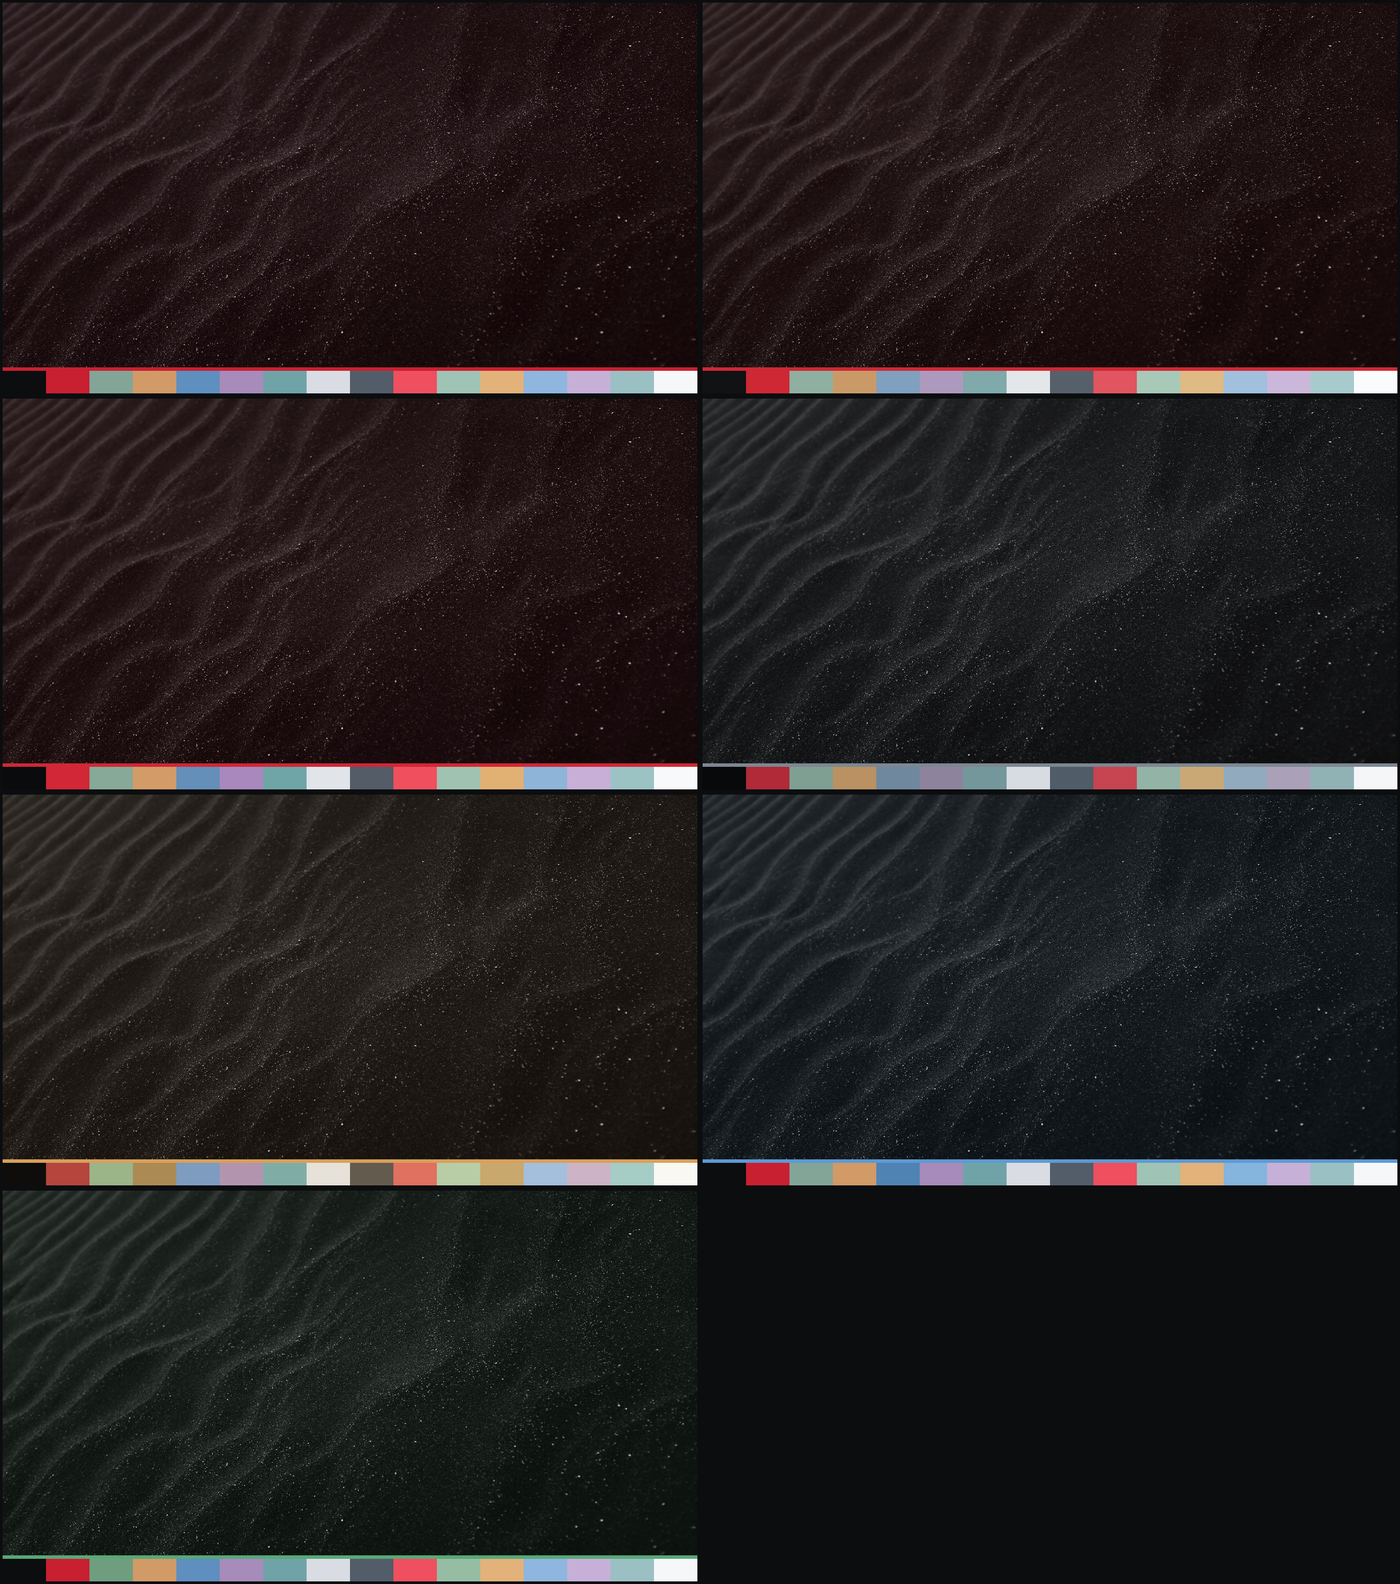
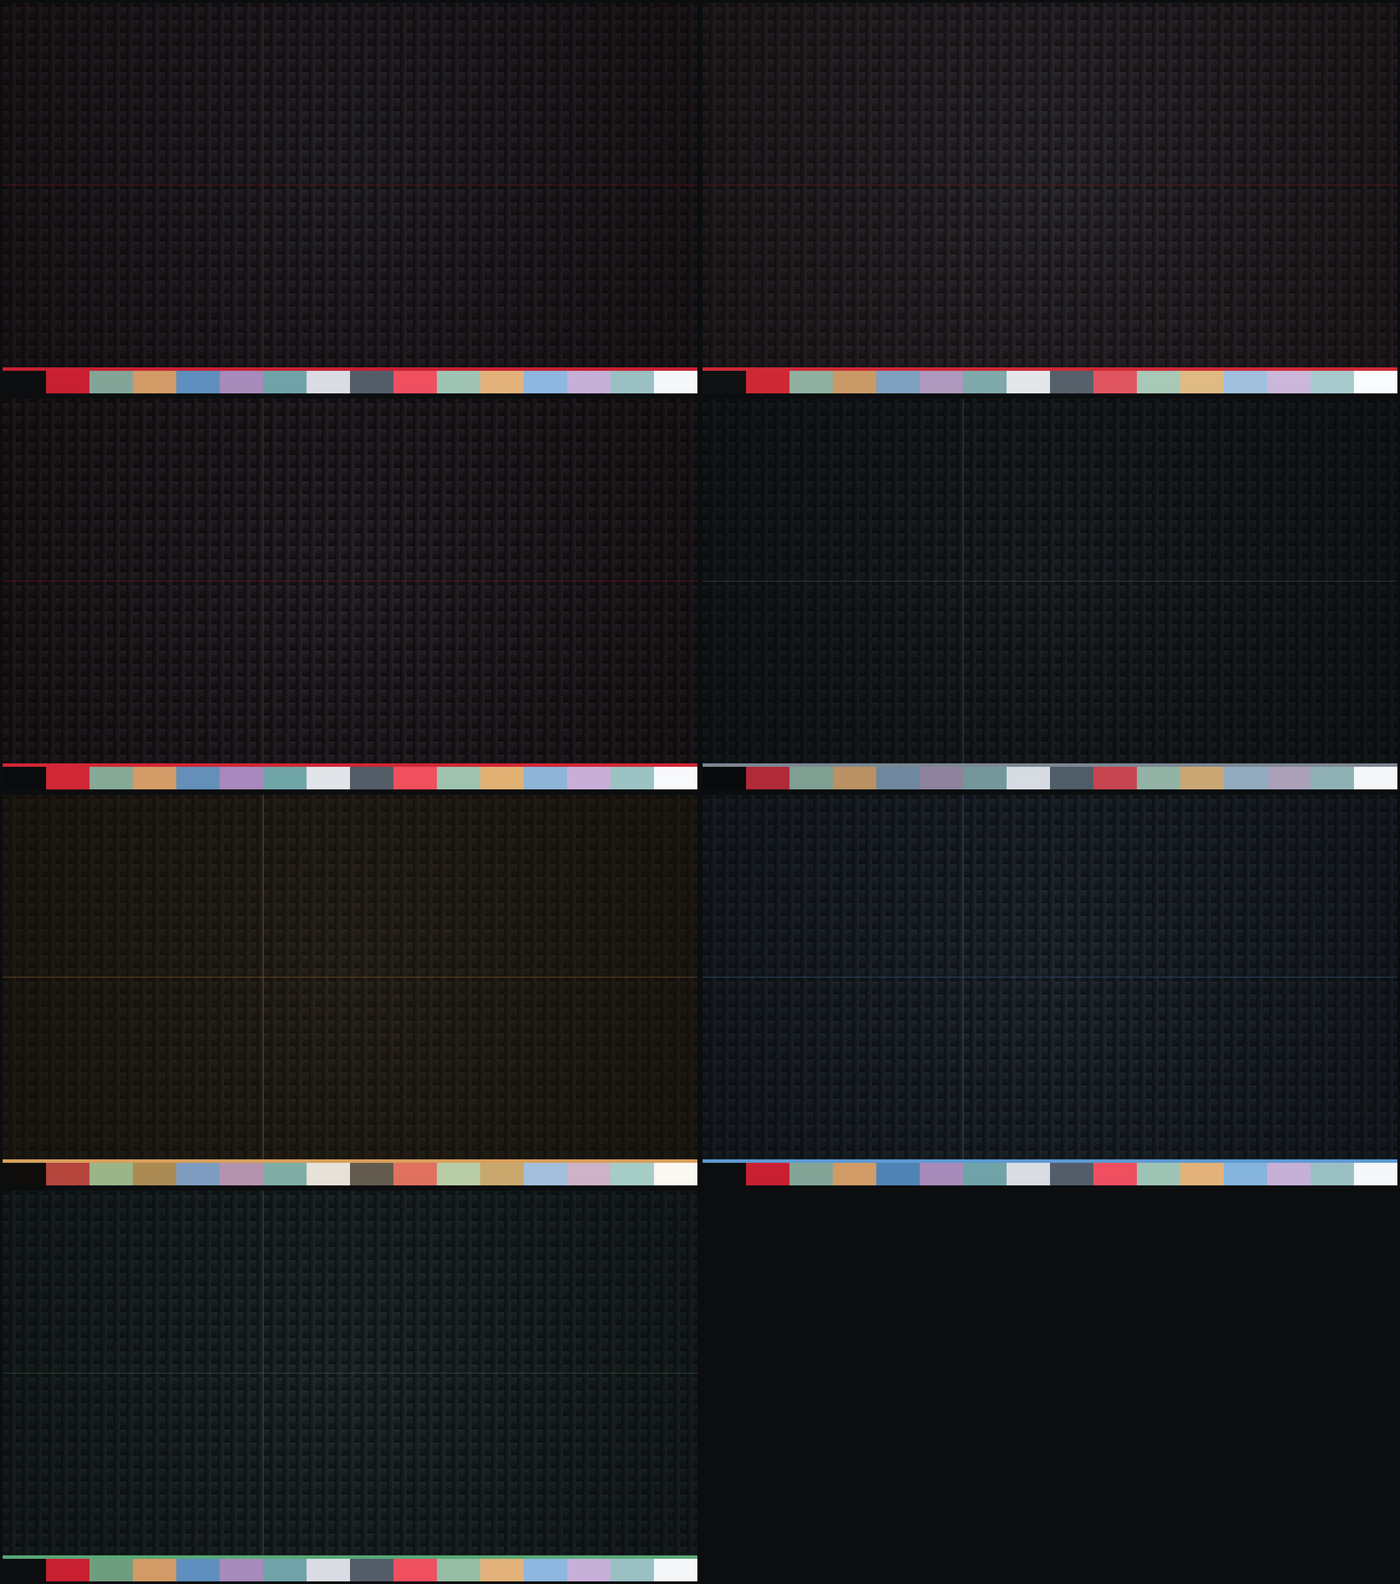
Signature wallpapers: accent-fiber weave, TrackPoint dot, unlock ring; drop stock photos

diff --git a/README.md b/README.md
@@ -81,6 +81,20 @@ with `-depth 8`, and install.sh warms the thumbnail cache via
 `omarchy-theme-switcher --preload` so the first open never hits the lazy
 path.
 
+## Signature wallpapers
+
+Every variant ships a three-piece generated set — no stock photography:
+
+1. `1-carbon-weave.jpg` — procedural carbon-fiber weave with a single accent
+   fiber crossing at thirds.
+2. `2-trackpoint.jpg` — the TrackPoint: a knurled dot under a top spotlight,
+   quiet accent rim.
+3. `3-heritage.jpg` — the shared original photo, tinted per variant.
+
+The fiber, the rims, and the tint washes all use the palette accent, so the
+wallpapers and the window borders share one identity per variant. Output is
+JPEG 2560x1600 — PNG would be ~40 MB per variant at this noise level.
+
 ## Custom wallpapers
 
 Two routes:
@@ -90,7 +104,7 @@ Two routes:
   sorted before the theme's own backgrounds.
 - **Route B (versioned):** drop images into `assets/backgrounds/<variant>/`
   (or `assets/backgrounds/all/` for every variant). `./build.sh` then ships
-  them **instead of** the generated carbon-weave/heritage set.
+  them **instead of** the signature set.
 
 ## Token contract (Omarchy 4)
 
